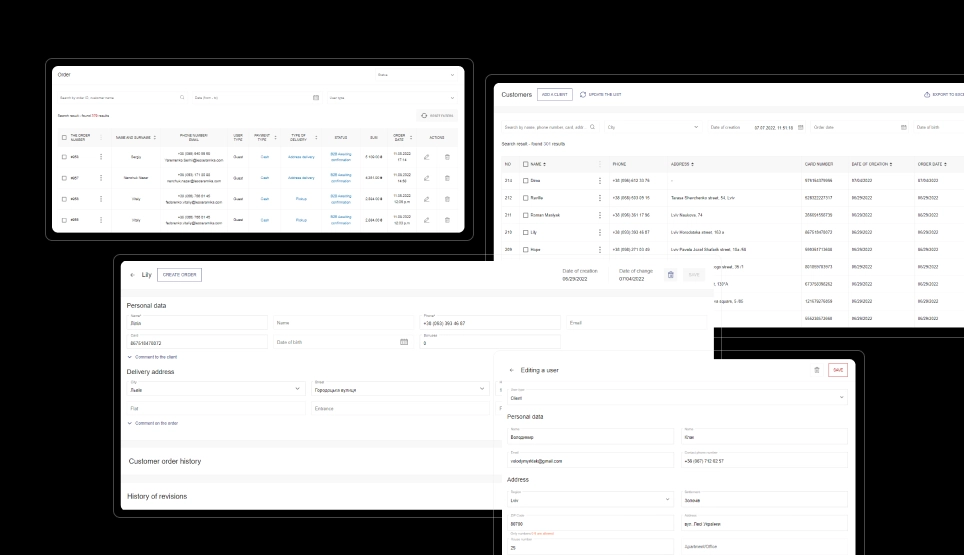
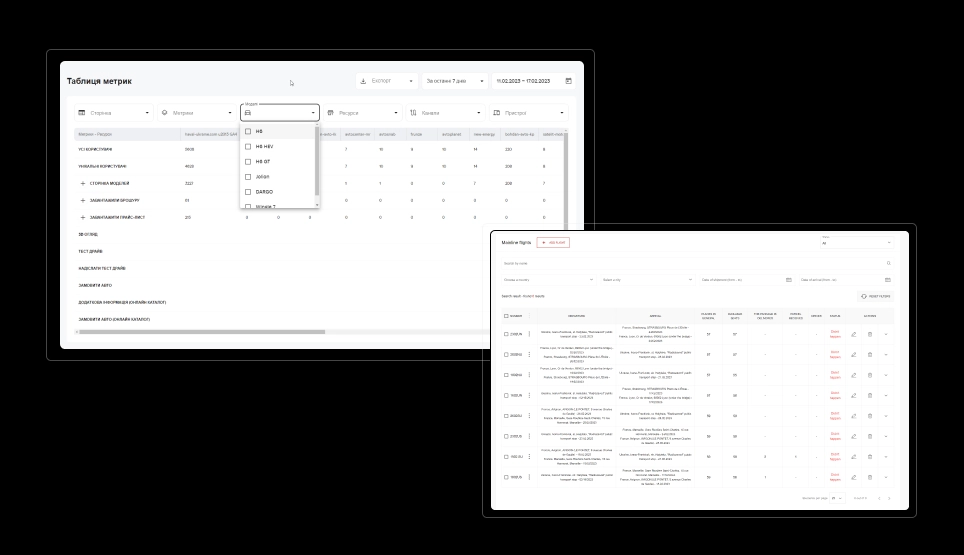
fix image

diff --git a/gulpfile.js b/gulpfile.js
@@ -231,10 +231,10 @@ export const img = () => {
         },
         [
           imageminJPG({
-            loops: 3,
-            min: 70,
-            max: 85,
-            quality: "medium",
+            loops: 2,
+            min: 90,
+            max: 100,
+            quality: "high",
           }),
           imageminPNG({
             speed: 1,
